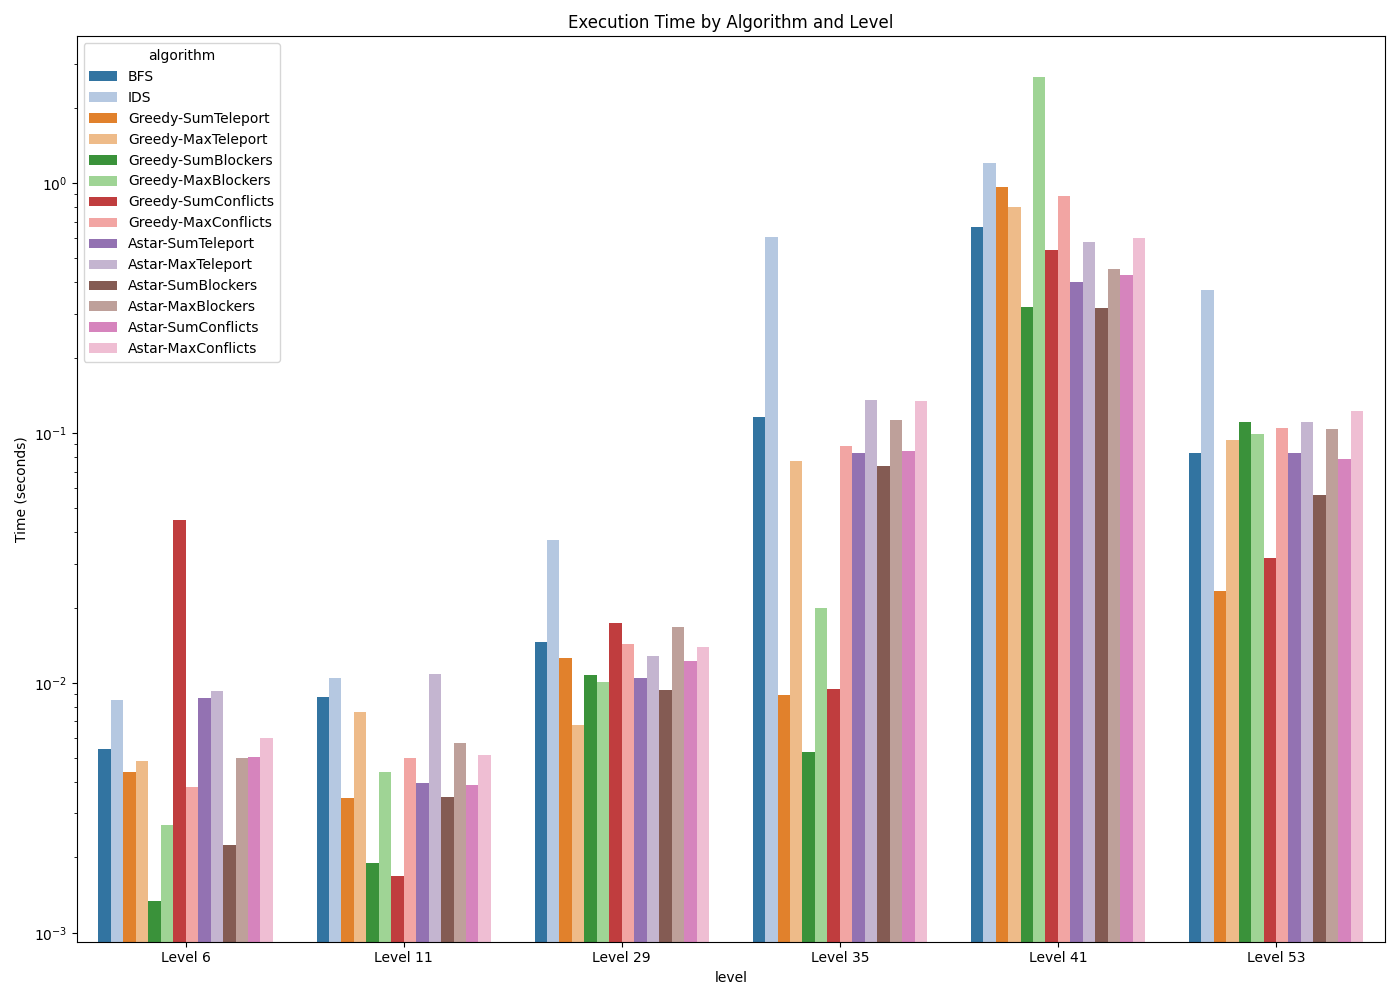
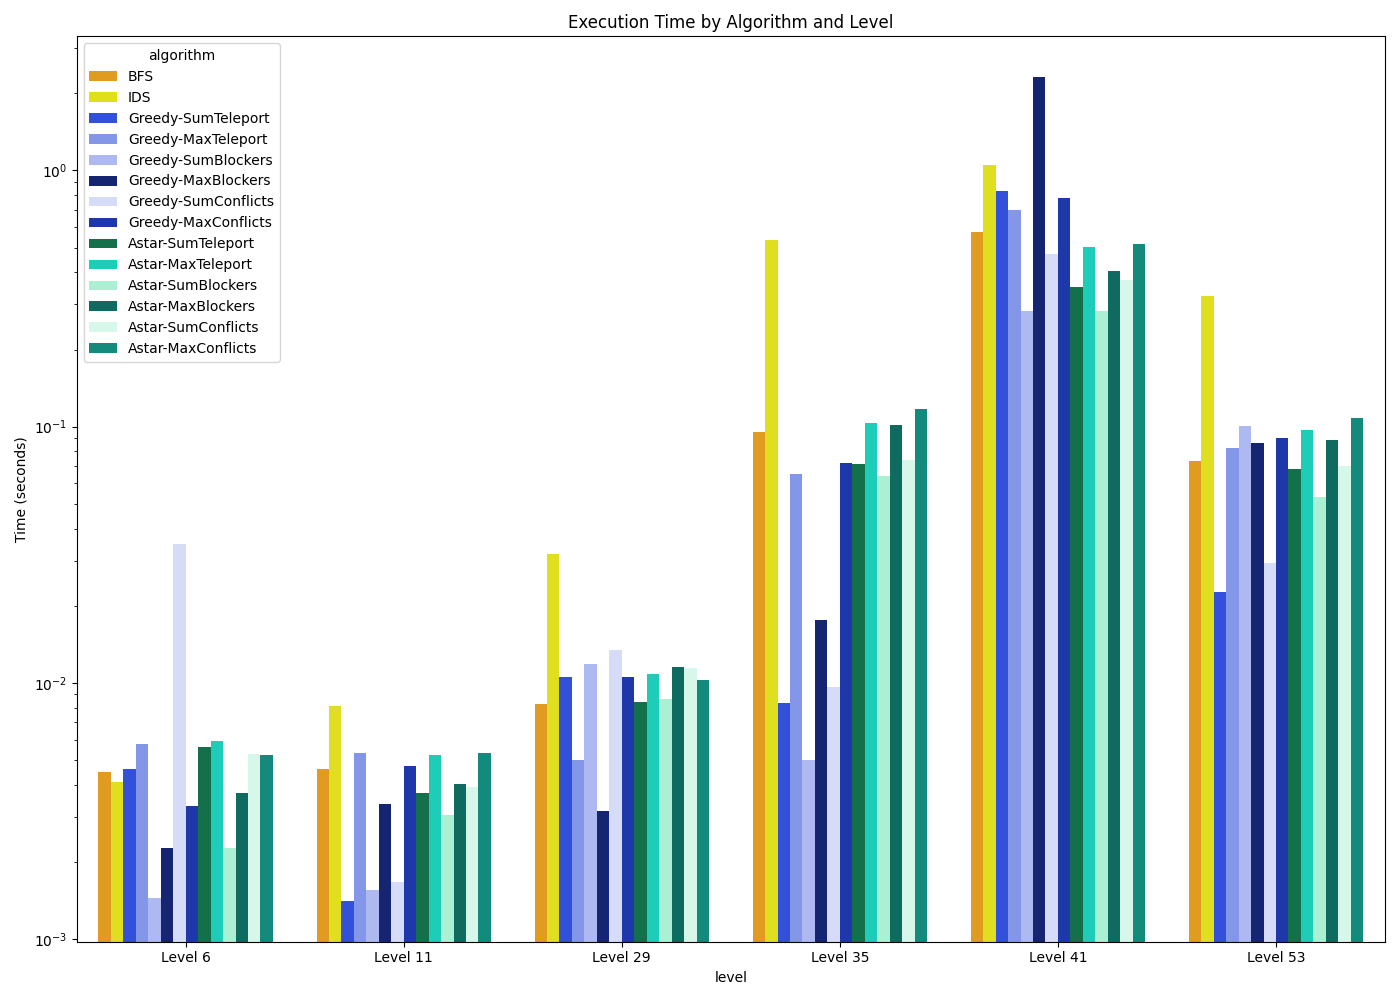
Fix benchmarking and set a color pallette

Changed region(s): [[0.0307, 0.062, 0.9829, 0.961], [0.0307, 0.062, 0.0921, 0.372]]

diff --git a/benchmark.py b/benchmark.py
@@ -10,7 +10,7 @@ import seaborn as sns
 import heuristic
 import search_algorithm
 from level_manager import LevelManager
-from main import run_algorithm
+from benchmark_utils import run_algorithm
 
 
 def parse_args():
@@ -107,7 +107,7 @@ def generate_plots(df):
     """Generates and saves various benchmark plots for different levels and algorithms.
     This function creates bar plots for execution time, memory usage, states generated, 
     solution quality, and algorithm efficiency. It also generates heatmaps of normalized metrics.
-    
+
     Args:
         df (pd.DataFrame): DataFrame containing benchmark data with columns 'level', 'algorithm', 
                            'time', 'memory', 'states_generated', 'solution_moves', and 'optimal_moves'.
@@ -116,13 +116,36 @@ def generate_plots(df):
     num_levels = len(levels)
     levels_per_plot = 6 # Number of levels to plot in each figure so that the plots are readable
     
-    palette = sns.color_palette("tab20", 14)  # Use a palette with 20 distinct colors
+    #palette = sns.color_palette("tab20", 14)  # Use a palette with 20 distinct colors
 
     for i in range(0, num_levels, levels_per_plot):
         subset_levels = levels[i:i + levels_per_plot]
         subset_df = df.loc[df['level'].isin(subset_levels)]
         idx = i // levels_per_plot
-        
+
+        color_map = {
+            "BFS": "orange",
+            "IDS": "yellow",
+            "Greedy-SumTeleport": "#163EF5",
+            "Greedy-MaxTeleport": "#738BF9",
+            "Greedy-SumBlockers": "#A2B2FB",
+            "Greedy-MaxBlockers": "#061B80",
+            "Greedy-SumConflicts": "#D0D8FD",
+            "Greedy-MaxConflicts": "#0829C0",
+            "Astar-SumTeleport": "#057F4C",
+            "Astar-MaxTeleport": "#00EACE",
+            "Astar-SumBlockers": "#A1FBD5",
+            "Astar-MaxBlockers": "#00796B",
+            "Astar-SumConflicts": "#D0FDEA",
+            "Astar-MaxConflicts": "#009E8B",
+        }
+
+        # Generate colors based on the category
+        labels = list(color_map.keys())
+        colors = [color_map[label] for label in labels]
+
+        # Create a palette for seaborn
+        palette = sns.color_palette(colors)
         # Time comparison
         plt.figure(figsize=(14, 10))
         sns.barplot(x="level", y="time", hue="algorithm", data=subset_df, palette=palette)
